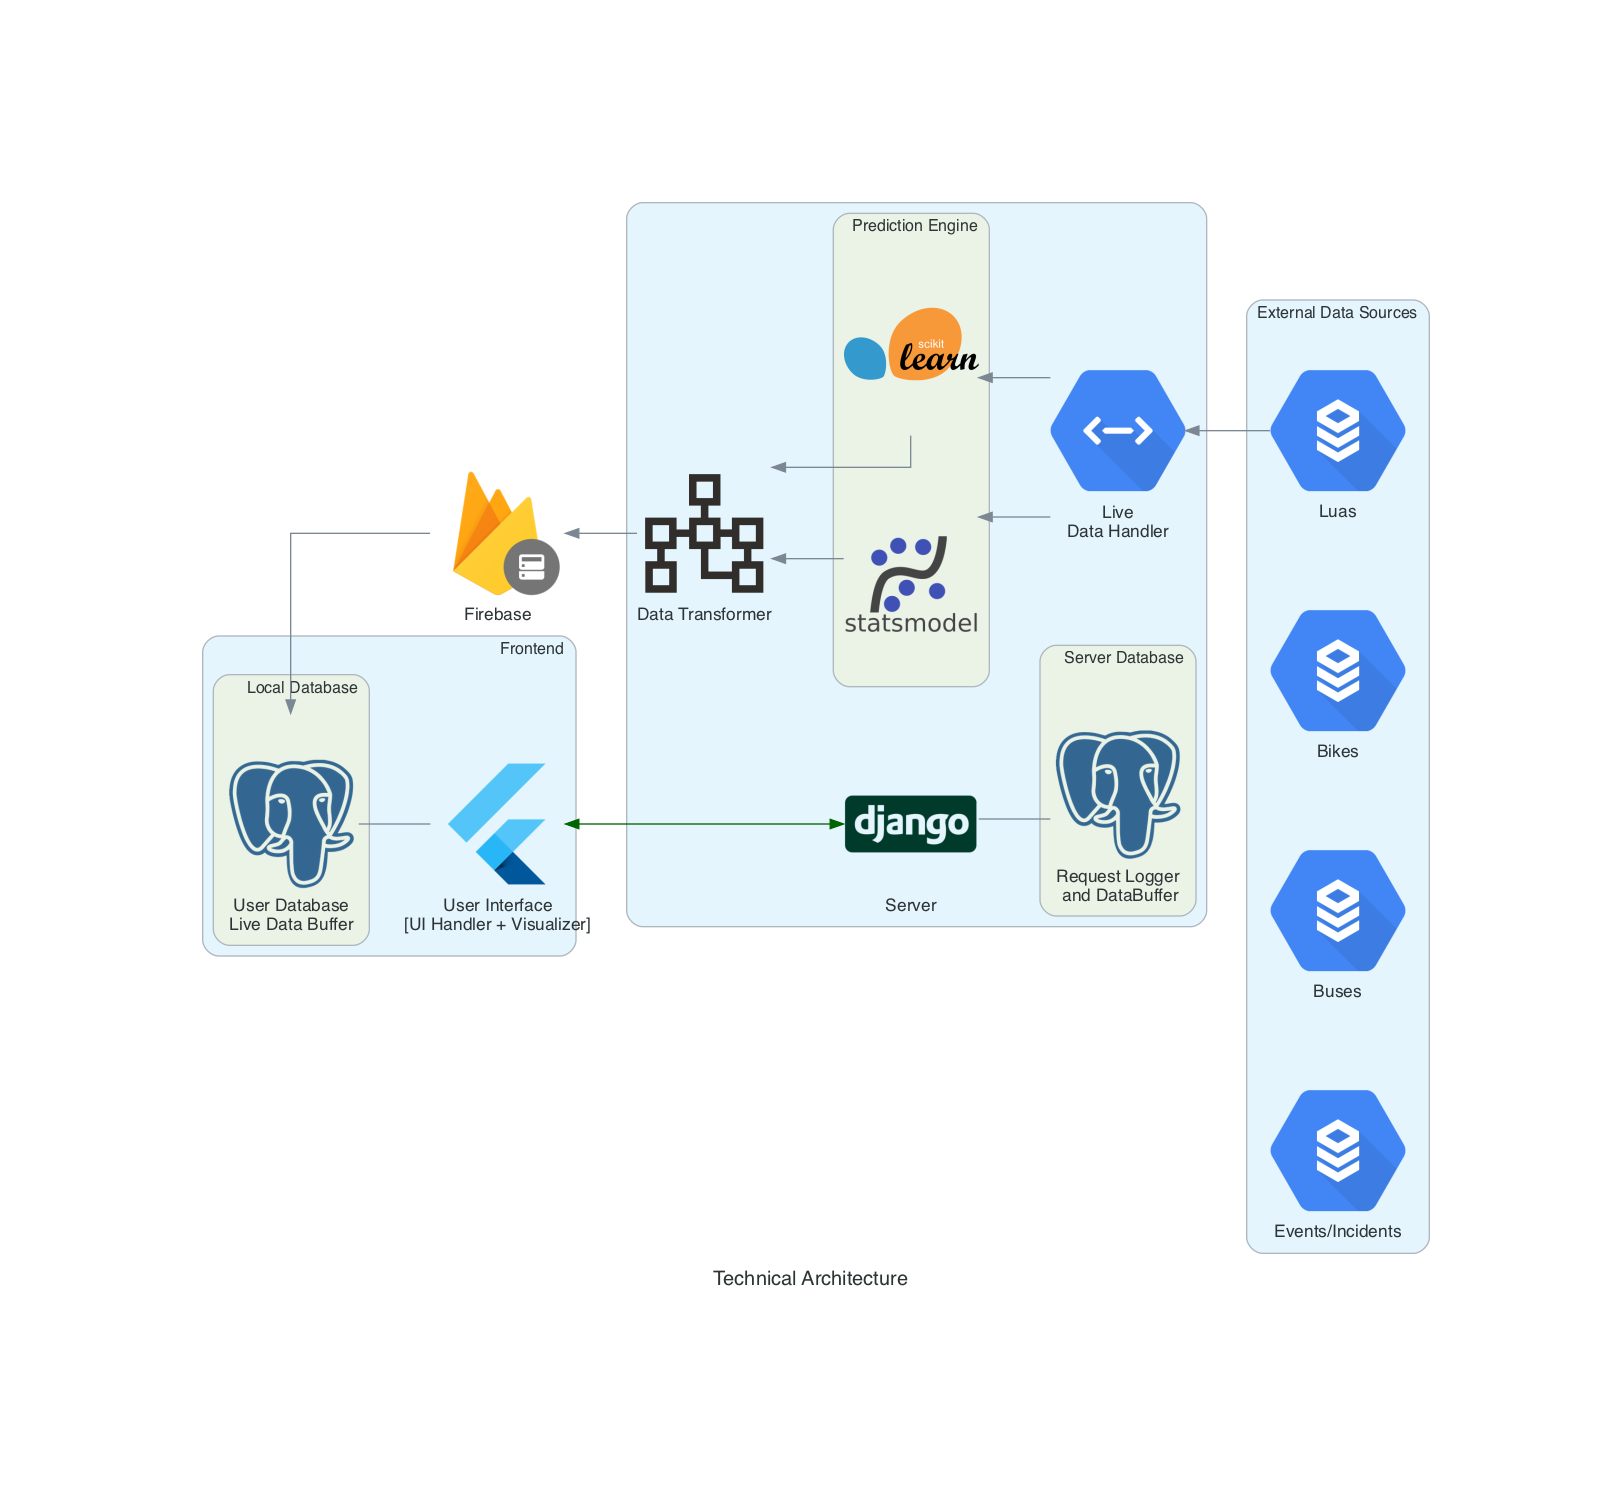
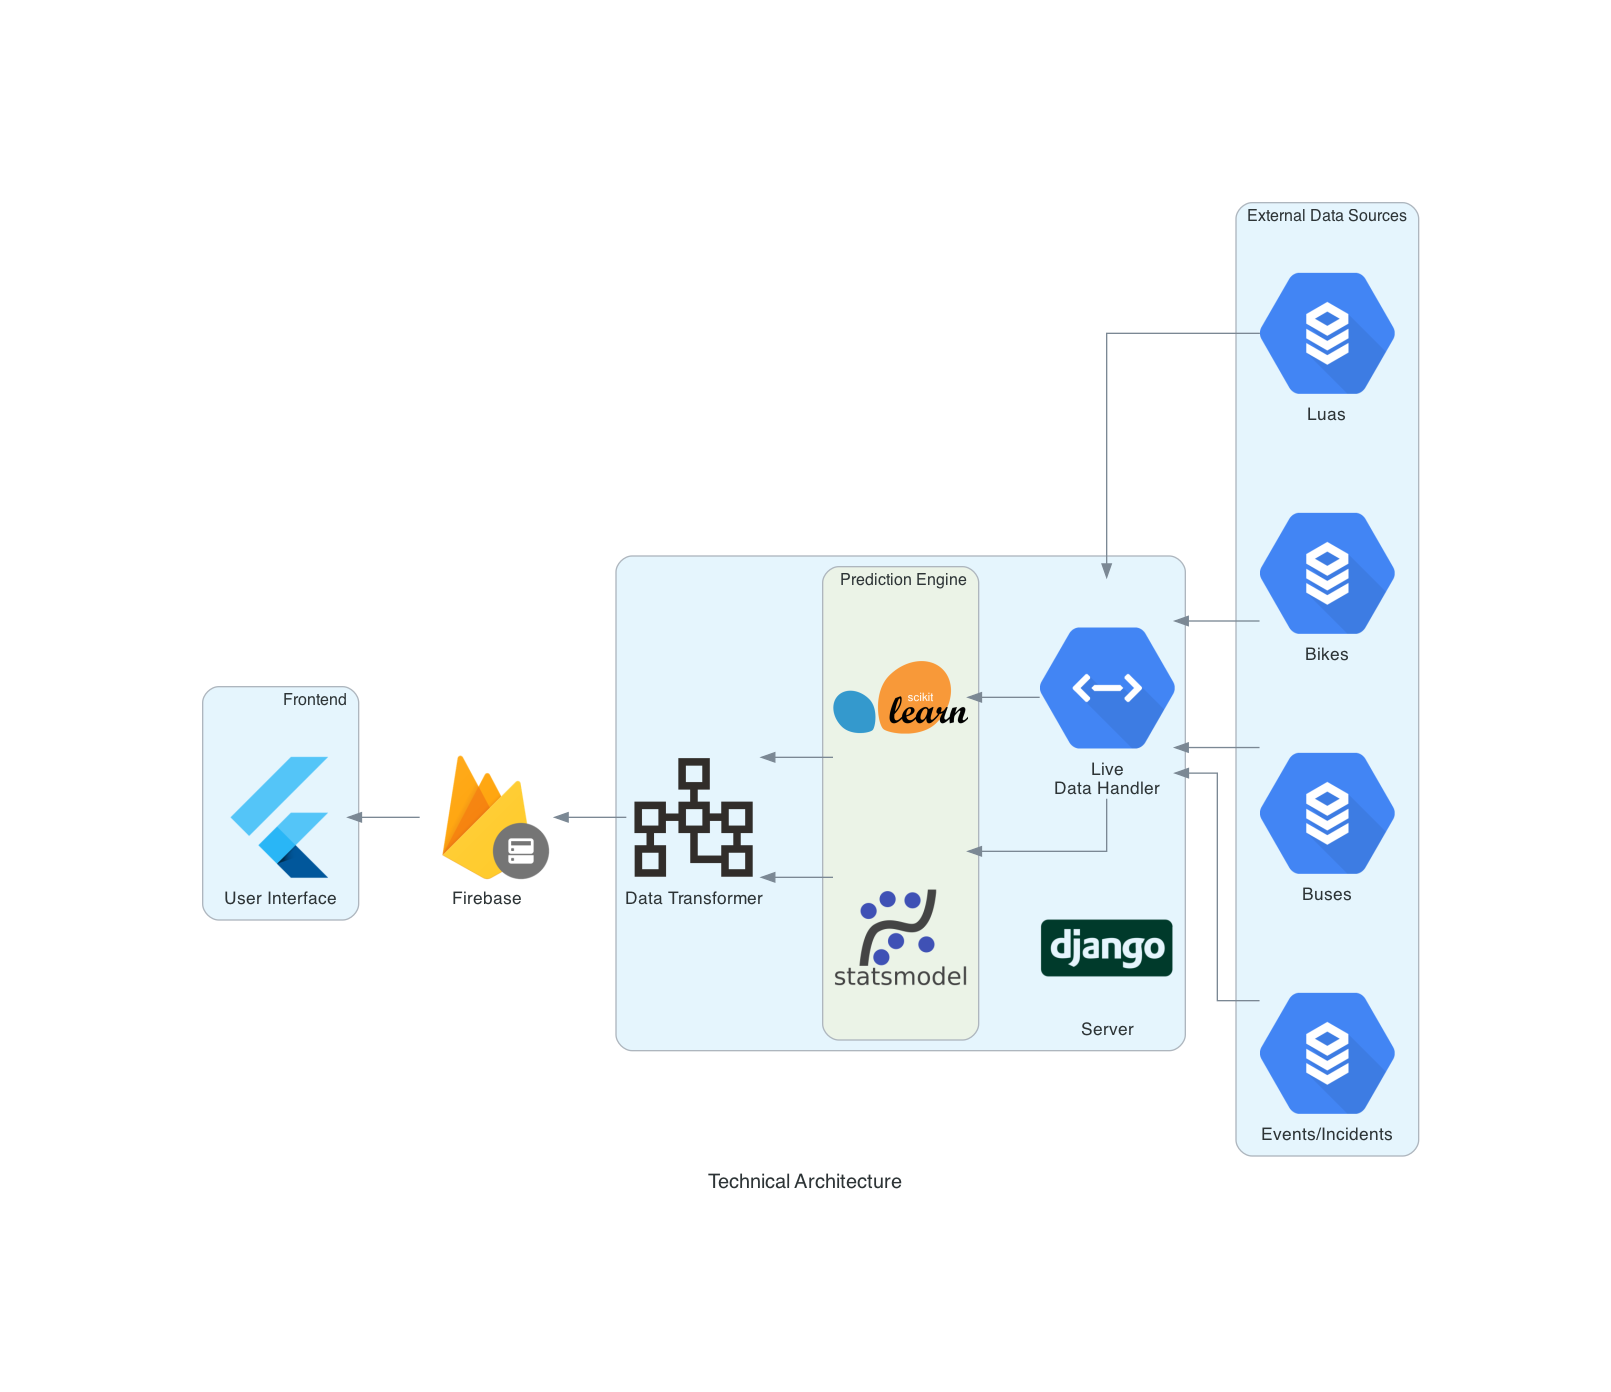
Available Bike stands bug

Changed region(s): [[0.1241, 0.1236, 0.9001, 0.8649], [0.4345, 0.8341, 0.5587, 0.8649]]

diff --git a/ase_group5_scm/lib/Routes/dublin_bikes_map.dart b/ase_group5_scm/lib/Routes/dublin_bikes_map.dart
@@ -68,8 +68,12 @@ class _BikeStationMapState extends State<BikeStationMap> {
   void initMarker (stationData, stationID) {
     var markerIdVal = stationID;
     final MarkerId markerId = MarkerId(markerIdVal);
-    var bikeStand = stationData.get("available_bike_stands").toString();
-    var freeBikes = stationData.get("available_bikes")[0].toString();
+    var bikeStand = stationData.get("available_bikeStands")[0];
+    var freeBikes = stationData.get("available_bikes")[0];
+    var totalBikes = bikeStand + freeBikes;
+    bikeStand = bikeStand.toString();
+    freeBikes = freeBikes.toString();
+    totalBikes = totalBikes.toString();
     final Marker marker = Marker(
       markerId: markerId,
       icon: customIcon,
@@ -77,7 +81,7 @@ class _BikeStationMapState extends State<BikeStationMap> {
           double.parse(stationData.get("longitude").toString())),
       infoWindow: InfoWindow(
           title: stationData.get("station_name"),
-          snippet: "Stands: $bikeStand | Bikes: $freeBikes"),
+          snippet: "Total Stands:$totalBikes\nAvailable Stands: $bikeStand\nAvailable Bikes: $freeBikes"),
     );
     markers[markerId] = marker;
   }

diff --git a/ase_group5_scm_django_server/SCM_SERVER/DataTransformer/tests/test_views.py b/ase_group5_scm_django_server/SCM_SERVER/DataTransformer/tests/test_views.py
@@ -22,7 +22,7 @@ class TestViews(unittest.TestCase):
         self.assertEqual(isinstance(result.longitude, str), True)
         self.assertEqual(isinstance(result.station_name, str), True)
         self.assertEqual(isinstance(result.station_status, str), True)
-        self.assertEqual(isinstance(result.available_bikeStands, int), True)
+        self.assertEqual(isinstance(result.available_bikeStands, list), True)
         self.assertEqual(isinstance(result.bike_stands, int), True)
         self.assertEqual(isinstance(result.available_bikes, list), True)
         self.assertEqual(isinstance(result.occupancy_list, list), True)
@@ -30,7 +30,7 @@ class TestViews(unittest.TestCase):
         self.assertEqual(len(result.occupancy_list), 289)
         self.assertEqual(any(x < 0 for x in result.available_bikes), False)
         self.assertEqual(any(x < 0 for x in result.occupancy_list), False)
-        self.assertEqual(result.available_bikeStands < 0, False)
+        self.assertEqual(any(x < 0 for x in result.available_bikeStands), False)
         self.assertEqual(result.bike_stands < 0, False)
 
     def test_transform_bike_data_not_primary(self):
@@ -53,7 +53,7 @@ class TestViews(unittest.TestCase):
         self.assertEqual(isinstance(result.longitude, str), True)
         self.assertEqual(isinstance(result.station_name, str), True)
         self.assertEqual(isinstance(result.station_status, str), True)
-        self.assertEqual(isinstance(result.available_bikeStands, int), True)
+        self.assertEqual(isinstance(result.available_bikeStands, list), True)
         self.assertEqual(isinstance(result.bike_stands, int), True)
         self.assertEqual(isinstance(result.available_bikes, list), True)
         self.assertEqual(isinstance(result.occupancy_list, list), True)
@@ -61,5 +61,5 @@ class TestViews(unittest.TestCase):
         self.assertEqual(len(result.occupancy_list), 289)
         self.assertEqual(any(x < 0 for x in result.available_bikes), False)
         self.assertEqual(any(x < 0 for x in result.occupancy_list), False)
-        self.assertEqual(result.available_bikeStands < 0, False)
+        self.assertEqual(any(x < 0 for x in result.available_bikeStands), False)
         self.assertEqual(result.bike_stands < 0, False)

diff --git a/documentation/technicalArchitecture.py b/documentation/technicalArchitecture.py
@@ -15,18 +15,14 @@ from diagrams.custom import Custom
 with Diagram("Technical Architecture", direction='RL') as diag: # It's LR by default, but you have a few options with the orientation
     
     with Cluster("Frontend"):
-        flutter = Flutter("User Interface\n[UI Handler + Visualizer]")
-        with Cluster("Local Database"):
-            localDBGroup = [
-                PostgreSQL("User Database\nLive Data Buffer"),
-            ]
-        flutter - localDBGroup
+        flutter = Flutter("User Interface")
+        
 
     firebase = RealtimeDatabase("Firebase")
 
     with Cluster("External Data Sources"):
-        luas = SQL("Luas"),
         dataSourcesGroup = [
+            SQL("Luas"),
             SQL("Bikes"),
             SQL("Buses"),
             SQL("Events/Incidents"),
@@ -42,20 +38,10 @@ with Diagram("Technical Architecture", direction='RL') as diag: # It's LR by def
                 Custom("",'scikitLearn.png'),
                 Custom("",'s.png')
             ]
-        apiEngine >> predictionGroup >> dataTransformer >> firebase >> localDBGroup
-        
-        with Cluster("Server Database"):
-            serverDBGroup = [
-                PostgreSQL("Request Logger\n and DataBuffer"),
-            ]
-        
-        serverDBGroup - django
+        apiEngine >> predictionGroup >> dataTransformer >> firebase >> flutter
 
         
-    luas >> apiEngine
-    django \
-        >> Edge(color="darkgreen") \
-        << flutter \
+    dataSourcesGroup >> apiEngine
 
     #TODO:Ad legend for every tech stack
     #PostgreSQL("PostgreSQL"),

diff --git a/ase_group5_scm_django_server/SCM_SERVER/DataTransformer/views.py b/ase_group5_scm_django_server/SCM_SERVER/DataTransformer/views.py
@@ -24,9 +24,8 @@ def transformBikeData(inputData,isPrimarySource):
             predictions = bikePredictor.predictDublinBikes(updated_list,int(result['station_id'])).tolist()
             predictions.insert(0,apiResponse['available_bikes'])
             result['available_bikes'] = predictions
-            
             result['bike_stands'] = apiResponse['bike_stands']
-            result['available_bike_stands']=apiResponse['available_bike_stands']
+            result['available_bike_stands']=[(result['bike_stands'] - x) for x in predictions]
             result['harvest_time'] = apiResponse['harvest_time']
             result['latitude'] = apiResponse['latitude']
             result['longitude'] = apiResponse['longitude']
@@ -50,7 +49,7 @@ def transformBikeData(inputData,isPrimarySource):
             result['available_bikes'] = predictions
 
             result['bike_stands'] = apiResponse['bike_stands']
-            result['available_bike_stands']=apiResponse['available_bike_stands']
+            result['available_bike_stands']=[(result['bike_stands'] - x) for x in predictions]
             timestamp = apiResponse['last_update']
             timestamp_ms = pd.to_datetime(timestamp, unit='ms')
             timestamp_formatted = timestamp_ms.strftime('%Y-%m-%dT%H:%M:%S')
